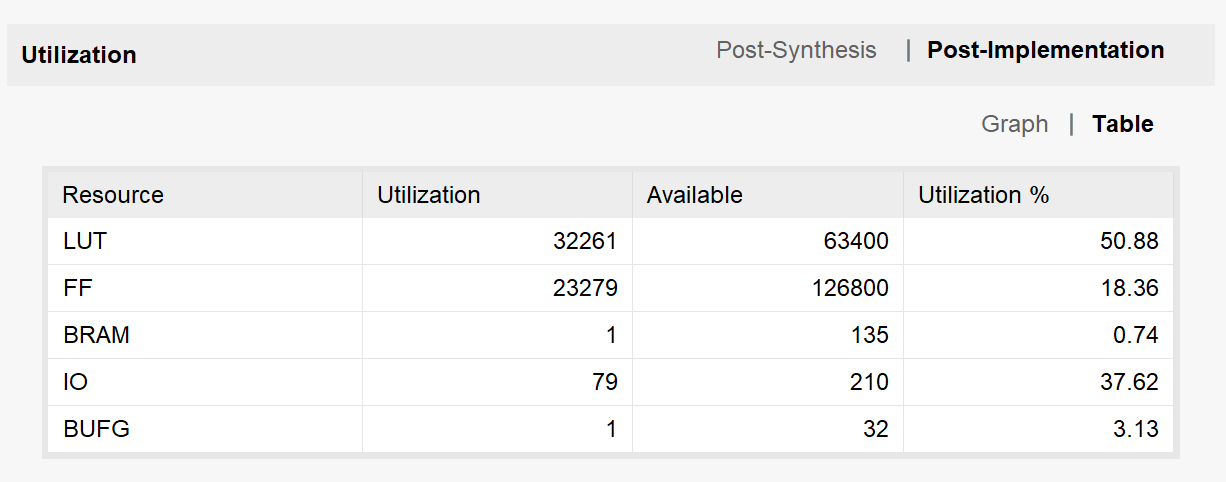
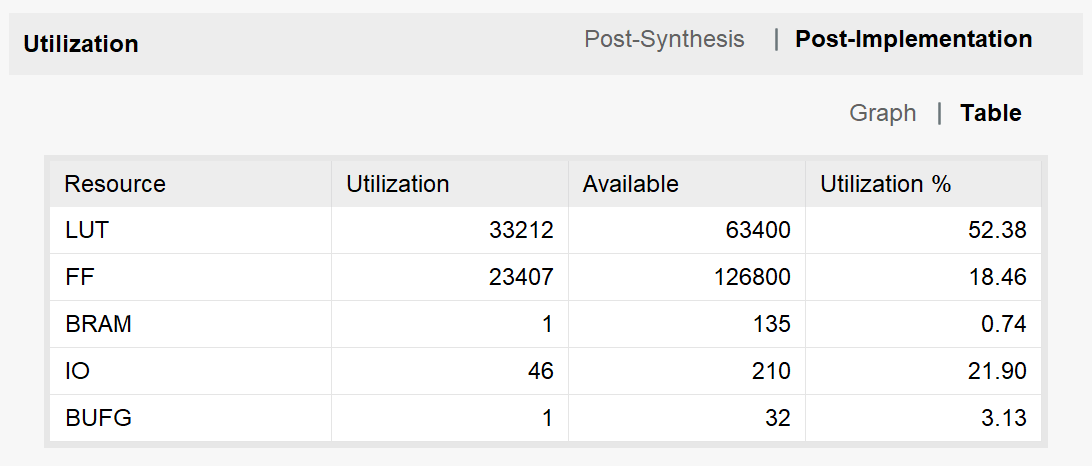
TaskX：更新实验报告

diff --git a/Labs/Lab1/report.md b/Labs/Lab1/report.md
@@ -1015,7 +1015,7 @@ endmodule
 ```
 在本任务的实现中，使用自行创建的读优先双端口读写 BRAM。
 
-排序模块基于快速排序算法，固定每轮排序的 pivot 为区间最后一个元素，通过硬件栈存储待处理的子数组索引，实现算法的非递归化。在排序模块中设计的状态机包括 19 种状态；复位后，状态机默认处于 `IDLE` 状态。
+排序模块基于快速排序算法，固定每轮排序的 pivot 为区间最后一个元素，通过硬件栈存储待处理的子数组索引，实现算法的非递归化。在排序模块中设计的状态机包括 24 种状态；复位后，状态机默认处于 `IDLE` 状态。
 
 为实现快速排序的递归逻辑，模块内维护一个深度为 1024 的硬件栈 `stack`，每个栈元素存储一个索引对 `{low, high}`，表示待排序的子数组范围。栈顶指针 `sp` 用于追踪栈的当前深度。
 
@@ -1025,30 +1025,35 @@ endmodule
 3. 在 `READ_PIVOT` 状态，状态机通过 BRAM 端口 A 发送地址 `high`，读取区间末尾元素 `bram[high]` 作为基准（pivot）。地址发送完成后，立即跳转到 `WAIT_PIVOT` 状态。
 4. BRAM 采用同步读取方式，需要一个时钟周期的延迟才能将数据稳定输出。因此，状态机在 `WAIT_PIVOT` 状态等待一个时钟周期，**等待输出端口的数据稳定后**，再跳转到 `LATCH_PIVOT` 状态。
 5. 在 `LATCH_PIVOT` 状态，状态机将基准值锁存到 `pivot_val`，并初始化分区索引 `i = low - 1` 和扫描索引 `j = low`，之后跳转到 `LOOP_COND` 状态。
-6. 在 `LOOP_COND` 状态，状态机判断分区循环条件 `j < high`：若条件成立，则通过 BRAM 端口 A 发送地址 `j` 读取 `bram[j]`，并跳转到 `WAIT_J` 状态继续分区；若条件不成立，说明分区循环已结束，跳转到 `SWAP_PIVOT_READ` 状态将基准放到正确位置。
+6. 在 `LOOP_COND` 状态，状态机判断分区循环条件 `j < high`：
+   - 若条件成立，则通过 BRAM 端口 A 发送地址 `j` 读取 `bram[j]`，并跳转到 `WAIT_J` 状态继续分区；
+   - 若条件不成立且 `i + 1 == high`（说明 pivot 已经在正确位置 `high`，无需归位交换），此时同时将 `pivot_idx = i + 1` 锁存，直接跳转到 `PUSH` 状态；
+   - 若条件不成立且 `i + 1 != high`，则跳转到 `SWAP_PIVOT_READ` 状态将基准放到正确位置。
 7. 在 `WAIT_J` 状态，状态机等待 BRAM 将 `bram[j]` 的数据稳定输出，等待一个时钟周期后跳转到 `LATCH_J` 状态。
 8. 在 `LATCH_J` 状态，状态机将 `bram[j]` 锁存到 `val_j`，跳转到 `CMP` 状态进行比较判断。
 9. 在 `CMP` 状态，状态机根据排序模式 `mode` 比较 `val_j` 与 `pivot_val`：
-   - 若 `mode = 1`（升序）且 `val_j <= pivot_val`，或 `mode = 0`（降序）且 `val_j >= pivot_val`，则将 `i` 自增，并通过 BRAM 端口 B 发送地址 `i + 1` 读取 `bram[i + 1]`，跳转到 `WAIT_I` 状态准备交换；
+   - 若满足交换条件（升序时 `val_j <= pivot_val`，降序时 `val_j >= pivot_val`），则将 `i` 自增：
+     - 若此时 `i + 1 == j`（即与自身交换，无意义），则直接将 `j` 自增并跳转回 `LOOP_COND` 状态，**跳过本次交换**；
+     - 否则，通过 BRAM 端口 B 发送地址 `i + 1` 准备读取 `bram[i + 1]`，跳转到 `WAIT_I` 状态；
    - 否则，直接将 `j` 自增并跳转回 `LOOP_COND` 状态继续下一轮循环。
 10. 在 `WAIT_I` 状态，状态机等待 BRAM 将 `bram[i + 1]` 的数据稳定输出，等待一个时钟周期后跳转到 `LATCH_I` 状态。
-11. 在 `LATCH_I` 状态，状态机将 `bram[i + 1]` 锁存到 `val_i`，跳转到 `SWAP` 状态执行交换。
-12. 在 `SWAP1` 状态，由于 `val_i, val_j` 都已经在之前的状态中先行锁存，因此可以在此状态中同时设置 A、B 端口的写入数据。设置 A 端口写入地址为 `i`，写入数据为 `val_j=bram[j]`，并打开写入；B 端口写入地址为 `j`，写入数据为 `val_i=bram[i]`。随后，跳转到 `SWAP2`。
-13. 在 `SWAP2` 状态，关闭 A 端口的写入，并打开 B 端口的写入；同时将 `j` 自增，随后跳转到 `SWAP_WAIT1`状态。
+11. 在 `LATCH_I` 状态，状态机将 `bram[i + 1]` 锁存到 `val_i`，跳转到 `SWAP1` 状态执行交换。
+12. 在 `SWAP1` 状态，仅通过端口 A 写入 `bram[i] = val_j`（打开 A 写入使能，关闭 B 写入使能）；同时预填 B 端口的写入数据 `val_i`，但**不预设 B 端口地址**（以防止和 A 端口产生同地址冲突）。随后跳转到 `SWAP2` 状态。
+13. 在 `SWAP2` 状态，关闭 A 端口的写入，设置 B 端口写入地址为 `j`、写入数据为 `val_i`，并打开 B 端口写入（此时 A 端口已关闭，两端口不会产生冲突）；同时将 `j` 自增，随后跳转到 `SWAP_WAIT1` 状态。
 14. 在 `SWAP_WAIT1` 状态，关闭 B 端口的写入，随后跳转到 `SWAP_WAIT2` 状态。
 15. 在 `SWAP_WAIT2` 状态，确保数据已稳定写入 BRAM。之后跳转回 `LOOP_COND`。
-16. 在 `SWAP_PIVOT_READ` 状态，分区循环已结束，状态机准备将基准放到正确位置 `i + 1`。通过 BRAM 端口 A 发送地址 `i + 1` 读取 `bram[i + 1]`，跳转到 `WAIT_PIVOT_SWAP` 状态。
+16. 在 `SWAP_PIVOT_READ` 状态，分区循环已结束，状态机准备将基准放到正确位置 `i + 1`，同时将 `pivot_idx = i + 1` 锁存。通过 BRAM 端口 A 发送地址 `i + 1` 读取 `bram[i + 1]`，跳转到 `WAIT_PIVOT_SWAP` 状态。
 17. 在 `WAIT_PIVOT_SWAP` 状态，状态机等待 BRAM 将 `bram[i + 1]` 的数据稳定输出，等待一个时钟周期后跳转到 `LATCH_PIVOT_SWAP` 状态。
-18. 在 `LATCH_PIVOT_SWAP` 状态，状态机将 `bram[i + 1]` 锁存到 `val_i1`，跳转到 `SWAP_PIVOT_WRITE` 状态执行基准交换。
-19. 在 `SWAP_PIVOT_WRITE1` 状态，设置 A 端口写入地址为 `pivot_idx=i+1`，写入数据为 `pivot_val`，并打开写入；B 端口写入地址为 `high`，写入数据为 `val_i1=bram[i+1]`。之后跳转到 `SWAP_PIVOT_WRITE2` 状态。
-20. 在 `SWAP_PIVOT_WRITE2` 状态，关闭 A 端口写入，打开 B 端口写入，随后跳转到 `SWAP_PIVOT_WAIT1` 状态。
+18. 在 `LATCH_PIVOT_SWAP` 状态，状态机将 `bram[i + 1]` 锁存到 `val_i1`，跳转到 `SWAP_PIVOT_WRITE1` 状态执行基准交换。
+19. 在 `SWAP_PIVOT_WRITE1` 状态，仅通过端口 A 写入 `bram[pivot_idx] = pivot_val`（打开 A 写入使能，关闭 B 写入使能）；同时预填 B 端口的写入数据 `val_i1`，但**不预设 B 端口地址**，以防止 `pivot_idx == high` 时两端口同地址冲突。之后跳转到 `SWAP_PIVOT_WRITE2` 状态。
+20. 在 `SWAP_PIVOT_WRITE2` 状态，关闭 A 端口写入，设置 B 端口写入地址为 `high`，并打开 B 端口写入（此时 A 端口已关闭，两端口不会产生冲突），随后跳转到 `SWAP_PIVOT_WAIT1` 状态。
 21. 在 `SWAP_PIVOT_WAIT1` 状态，关闭 B 端口写入，随后跳转到 `SWAP_PIVOT_WAIT2` 状态。
 22. 在 `SWAP_PIVOT_WAIT2` 状态，确保数据已稳定写入 BRAM。之后跳转到 `PUSH`。
 23. 在 `PUSH` 状态，状态机根据分区结果，将新产生的子数组索引压入栈中：
     - 若 `low < pivot_idx - 1`，则左子数组 `[low, pivot_idx - 1]` 有效，将其压栈；
     - 若 `pivot_idx + 1 < high`，则右子数组 `[pivot_idx + 1, high]` 有效，将其压栈；
     - 压栈完成后，跳转回 `POP` 状态处理下一个子数组。
-24. 在 `DONE` 状态时，状态机将 `done` 信号置为有效，并将 BRAM 端口 A 再次开放给外部拨码开关以便查看排序后的数据，随后跳转回 `IDLE` 状态，等待下一次排序请求。
+24. 在 `DONE` 状态时，状态机将 `done` 信号置为有效，并将 BRAM 端口 A 再次开放给外部拨码开关以便查看排序后的数据。为保证上板运行时 `done` 对应信号持续有效，`DONE` 状态将一直维持，直到 `rstn` 信号重置整个状态机。
 
 #### 资源使用、性能比较
 ##### LUT、FF 等资源使用情况
@@ -1056,17 +1061,19 @@ endmodule
 ![快速排序 LUT、FF 等资源使用情况](attachments/pic_taskx_util.png)
 
 ##### 最高时钟频率
-经过测试，当时钟周期为 $10.1\,\text{ns}$ 时，WNS 达到 $0.092\,\text{ns}$，故电路正常工作的最高时钟频率约为 $99.92\,\text{MHz}$。
-![快速排序在时钟周期 10.1ns 下的时序情况](attachments/pic_taskx_wns.png)
+经过测试，当时钟周期为 $5.9\,\text{ns}$ 时，WNS 达到 $0.076\,\text{ns}$，故电路正常工作的最高时钟频率约为 $171.70\,\text{MHz}$。
+![快速排序在时钟周期 5.9ns 下的时序情况](attachments/pic_taskx_wns.png)
 
 ##### 排序速度
 对 `data.coe` 中的数据进行降序冒泡排序时，共花费 `0x243327=2372391` 个时钟周期；进行升序冒泡排序时，共花费 `0x23BAD9=2341593` 个时钟周期。
+
+对 `data.coe` 中的数据进行降序快速排序时，共花费 `0x14C64=85092` 个时钟周期；进行升序快速排序时，共花费 `0x12B6C=76652` 个时钟周期。
 
 ---
 
 从硬件实现角度分析，快速排序相比冒泡排序需要更多的电路资源，主要体现在以下几个方面：
 
-1. **状态机复杂度**：冒泡排序的状态机仅有 7 个状态，使用 3 位状态寄存器即可表示；而快速排序的状态机包含 19 个状态，需要 5 位状态寄存器。更复杂的状态转换逻辑会消耗更多的组合逻辑资源。
+1. **状态机复杂度**：冒泡排序的状态机仅有 7 个状态，使用 3 位状态寄存器即可表示；而快速排序的状态机包含 24 个状态，需要 5 位状态寄存器。更复杂的状态转换逻辑会消耗更多的组合逻辑资源。
 
 2. **存储资源**：非递归化的快速排序过程需要额外的硬件栈来存储待处理的子数组索引。在实现本任务时使用的栈深度为 1024，每个栈元素存储一个 22 位的索引对 `{low, high}`，总共需要 $1024 \times 22 = 22528$ 位的存储空间。此外，快速排序还需要维护多个辅助寄存器（`pivot_val`、`val_j`、`val_i`、`val_i1` 等）用于暂存中间数据。
 
